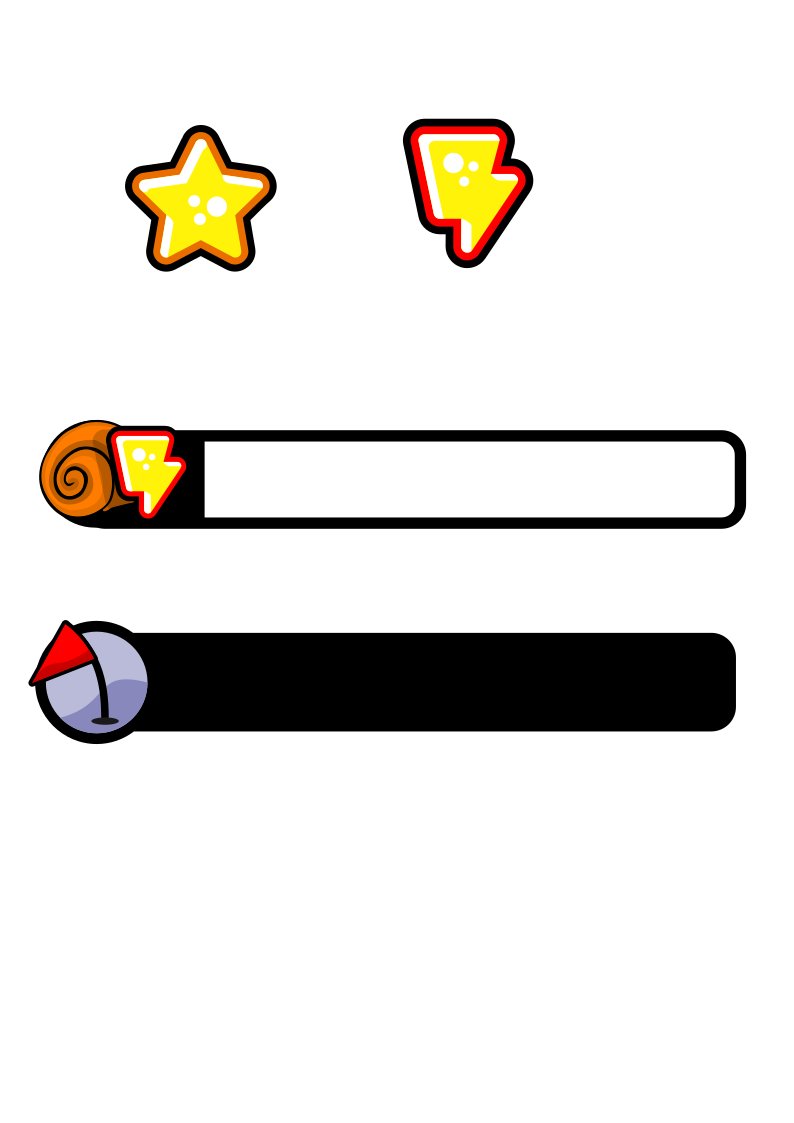
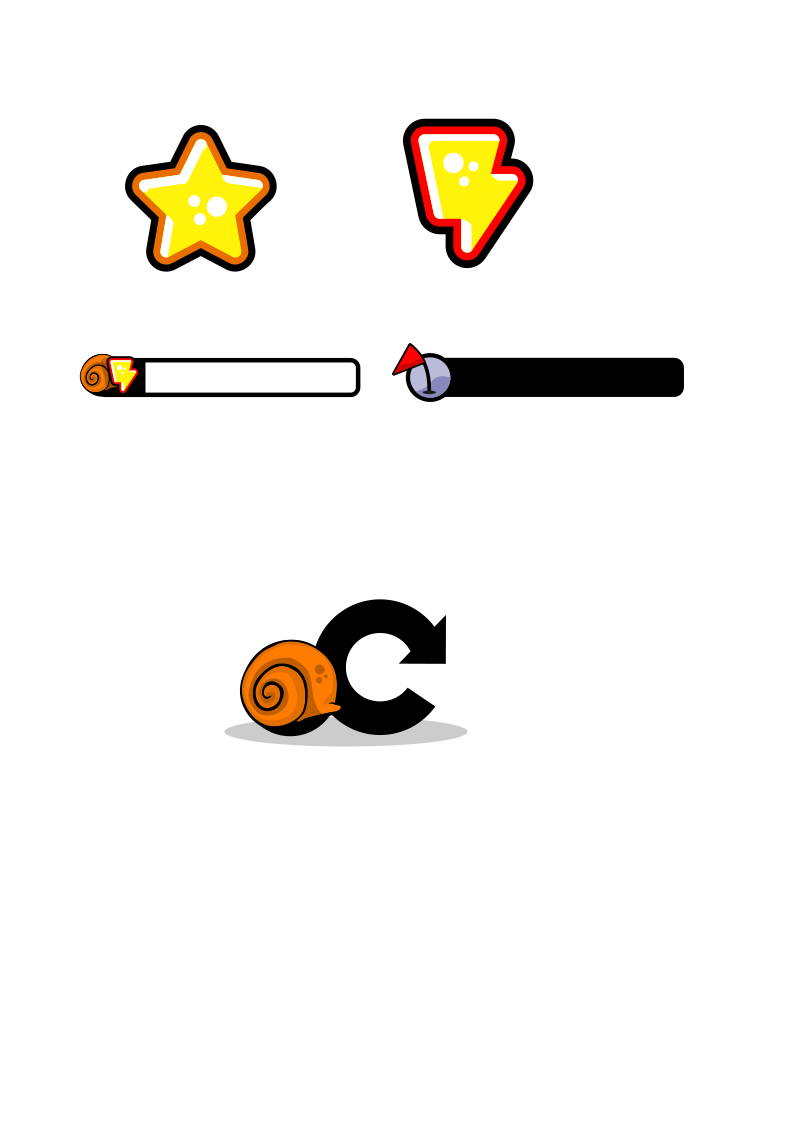
feat: replay game

Changed region(s): [[0.0302, 0.3117, 0.9673, 0.4987], [0.0302, 0.5298, 0.937, 0.6857]]

diff --git a/src/view/Cloud.js b/src/view/Cloud.js
@@ -1,0 +1,36 @@
+import { Graphics, Sprite, Text } from "pixi.js";
+
+function mobileCheck() {
+  if(!navigator && !window) {
+    return false
+  }
+  let check = false;
+  (function(a){if(/(android|bb\d+|meego).+mobile|avantgo|bada\/|blackberry|blazer|compal|elaine|fennec|hiptop|iemobile|ip(hone|od)|iris|kindle|lge |maemo|midp|mmp|mobile.+firefox|netfront|opera m(ob|in)i|palm( os)?|phone|p(ixi|re)\/|plucker|pocket|psp|series(4|6)0|symbian|treo|up\.(browser|link)|vodafone|wap|windows ce|xda|xiino/i.test(a)||/1207|6310|6590|3gso|4thp|50[1-6]i|770s|802s|a wa|abac|ac(er|oo|s\-)|ai(ko|rn)|al(av|ca|co)|amoi|an(ex|ny|yw)|aptu|ar(ch|go)|as(te|us)|attw|au(di|\-m|r |s )|avan|be(ck|ll|nq)|bi(lb|rd)|bl(ac|az)|br(e|v)w|bumb|bw\-(n|u)|c55\/|capi|ccwa|cdm\-|cell|chtm|cldc|cmd\-|co(mp|nd)|craw|da(it|ll|ng)|dbte|dc\-s|devi|dica|dmob|do(c|p)o|ds(12|\-d)|el(49|ai)|em(l2|ul)|er(ic|k0)|esl8|ez([4-7]0|os|wa|ze)|fetc|fly(\-|_)|g1 u|g560|gene|gf\-5|g\-mo|go(\.w|od)|gr(ad|un)|haie|hcit|hd\-(m|p|t)|hei\-|hi(pt|ta)|hp( i|ip)|hs\-c|ht(c(\-| |_|a|g|p|s|t)|tp)|hu(aw|tc)|i\-(20|go|ma)|i230|iac( |\-|\/)|ibro|idea|ig01|ikom|im1k|inno|ipaq|iris|ja(t|v)a|jbro|jemu|jigs|kddi|keji|kgt( |\/)|klon|kpt |kwc\-|kyo(c|k)|le(no|xi)|lg( g|\/(k|l|u)|50|54|\-[a-w])|libw|lynx|m1\-w|m3ga|m50\/|ma(te|ui|xo)|mc(01|21|ca)|m\-cr|me(rc|ri)|mi(o8|oa|ts)|mmef|mo(01|02|bi|de|do|t(\-| |o|v)|zz)|mt(50|p1|v )|mwbp|mywa|n10[0-2]|n20[2-3]|n30(0|2)|n50(0|2|5)|n7(0(0|1)|10)|ne((c|m)\-|on|tf|wf|wg|wt)|nok(6|i)|nzph|o2im|op(ti|wv)|oran|owg1|p800|pan(a|d|t)|pdxg|pg(13|\-([1-8]|c))|phil|pire|pl(ay|uc)|pn\-2|po(ck|rt|se)|prox|psio|pt\-g|qa\-a|qc(07|12|21|32|60|\-[2-7]|i\-)|qtek|r380|r600|raks|rim9|ro(ve|zo)|s55\/|sa(ge|ma|mm|ms|ny|va)|sc(01|h\-|oo|p\-)|sdk\/|se(c(\-|0|1)|47|mc|nd|ri)|sgh\-|shar|sie(\-|m)|sk\-0|sl(45|id)|sm(al|ar|b3|it|t5)|so(ft|ny)|sp(01|h\-|v\-|v )|sy(01|mb)|t2(18|50)|t6(00|10|18)|ta(gt|lk)|tcl\-|tdg\-|tel(i|m)|tim\-|t\-mo|to(pl|sh)|ts(70|m\-|m3|m5)|tx\-9|up(\.b|g1|si)|utst|v400|v750|veri|vi(rg|te)|vk(40|5[0-3]|\-v)|vm40|voda|vulc|vx(52|53|60|61|70|80|81|83|85|98)|w3c(\-| )|webc|whit|wi(g |nc|nw)|wmlb|wonu|x700|yas\-|your|zeto|zte\-/i.test(a.substr(0,4))) check = true;})(navigator.userAgent||navigator.vendor||window.opera);
+  return check;
+};
+
+export default class Cloud extends Sprite {
+
+  constructor(model) {
+    super(model)
+    this.content = Sprite.from('replay.png')
+    this.content.y = -350
+    this.content.anchor.set(0.5)
+    this.addChild(this.content)
+
+    const action = mobileCheck() ? 'TAP' : 'CLICK'
+
+    this.label = new Text(`${action} TO\nREPLAY`, {
+      fontFamily : 'Arial', 
+      fontSize: 50, 
+      fill : 0x000000,
+      fontWeight: 'bold',
+      align : 'center'
+    });
+    this.label.x = 20
+    this.label.y = -310
+    this.label.anchor.set(0.5, 0.5)
+    this.addChild(this.label)
+  }
+
+}

diff --git a/src/view/WorldView.js b/src/view/WorldView.js
@@ -1,5 +1,5 @@
 import { Sprite } from "pixi.js";
-import { SNAIL_MIN_SPEED } from "../sim/Snail";
+import { DEAD, SNAIL_MIN_SPEED } from "../sim/Snail";
 import Background from "./ground/Background";
 import DistanceMeter from "./DistanceMeter";
 import EnergyBar from "./EnergyBar";
@@ -19,6 +19,7 @@ export default class WorldView extends View {
     this.zoom = 50
 
     this.yShift = 0.5
+    this.xShift = 0.18
     this.groundWidth = 500
 
     this.ground = new GroundView(this.model.ground)
@@ -52,14 +53,16 @@ export default class WorldView extends View {
     this.ground.update()
   }
 
-  follow(x, y, width, height) {
+  follow(snail, width, height) {
+    const x = snail.body.getPosition().x
+    const y = snail.body.getPosition().y
     this.background.follow(x, y, width, height)
 
     let vx = this.model.snail.body.getLinearVelocity().x
     let vy = this.model.snail.body.getLinearVelocity().y
     let v = Math.sqrt(vx * vx + vy * vy) 
     v = Math.max(v, SNAIL_MIN_SPEED)
-    const timeHorizon = 5 // seconds
+    const timeHorizon = 4 // seconds
     const distanceHorizon = v * timeHorizon
 
     const targetZoom = Math.min(60,  width / distanceHorizon)
@@ -70,18 +73,22 @@ export default class WorldView extends View {
       this.zoom += Math.max(-0.1 , (targetZoom - this.zoom) * 0.01)
     }
 
-    if(this.model.snail.isOnGround) {
+    if(this.model.snail.state === DEAD) {
+      this.yShift += Math.min(0.0005,  (0.8 - this.yShift) * 0.08)
+      this.xShift += Math.min(0.0005,  (0.5 - this.xShift) * 0.08)
+    } else if(this.model.snail.isOnGround) {
       this.yShift += Math.min(0.0005,  (0.6 - this.yShift) * 0.05)
     } else {
       this.yShift += Math.max(-0.0005, (0.4  - this.yShift) * 0.08)
     }
 
-    const targetX = -x * this.viewContainer.scale.x + width / 4
-    const targetY = -y * this.viewContainer.scale.y + height * this.yShift
+    let targetX
+    let targetY
 
+    targetX = -x * this.viewContainer.scale.x + width * this.xShift
+    targetY = -y * this.viewContainer.scale.y + height * this.yShift
     this.viewContainer.x = targetX
     this.viewContainer.y += (targetY - this.viewContainer.y) * 0.3
-
-    this.groundWidth = width / this.viewContainer.scale.x 
+    this.groundWidth = width / this.viewContainer.scale.x     
   }
 }

diff --git a/src/sim/InputController.js b/src/sim/InputController.js
@@ -1,21 +1,64 @@
-export default class InputController {
-  constructor(doc, snail) {
+import { EventEmitter } from "events"
+
+export default class InputController extends EventEmitter {
+  constructor(doc) {
+    super()
     this.doc = doc
-    this.snail = snail
+    this._snail = null
+    this.gameOverHandler = this.omGameOver.bind(this)
+    this.gameOver = false;
+  }
+
+  set snail(snail) {
+    if(this._snail) {
+      this._snail.off('gameover', this.gameOverHandler)
+    }
+    this._snail = snail
+    this._snail.on('gameOver', this.gameOverHandler)
+  }
+
+  get snail() {
+    return this._snail
   }
 
   init() {
     this.doc.addEventListener('keydown', (e) => {
       if(e.code.toLocaleLowerCase() === 'space') {
-        this.snail.run = true
+        this.activate()
       }
     });
     this.doc.addEventListener('keyup', (e) => {
       if(e.code.toLocaleLowerCase() === 'space') {
-        this.snail.run = false
+        this.deactivate()
       }
     });
+
+    this.doc.addEventListener('mousedown', () => this.activate())
+    this.doc.addEventListener('mouseup', () => this.deactivate())
+    this.doc.addEventListener('touchstart', () => this.activate())
+    this.doc.addEventListener('touchend', () => this.deactivate())
   
     this.doc.body.focus()
+  }
+
+  activate() {
+    if(this._snail && !this.gameOver) {
+      this._snail.run = true
+    }
+  }
+
+  deactivate() {
+    if(this.gameOver) {
+      this.gameOver = false
+      this.emit('replay')
+      return;
+    }
+    if(this._snail && !this.gameOver) {
+      this._snail.run = false
+    }
+  }
+
+  omGameOver() {
+    this.gameOver = true
   }
 }

diff --git a/src/index.js b/src/index.js
@@ -4,13 +4,10 @@ import { Application, Graphics, Text } from "pixi.js";
 import './style.css'
 import WorldView from './view/WorldView.js';
 
-document.addEventListener("DOMContentLoaded", (event) => {
 
-  // model 
+function startNewGame() {
   const sim = new World()
   const view = new WorldView(sim)
-  const controller = new InputController(document, sim.snail)
-  controller.init()
 
   // rendering
   const sceneContainer = document.querySelector("#scene");
@@ -26,13 +23,46 @@ document.addEventListener("DOMContentLoaded", (event) => {
     sim.update(dt, view.groundWidth)
     view.update()
     view.follow(
-      sim.snail.body.getPosition().x,
-      sim.snail.body.getPosition().y,
+      sim.snail,
       app.renderer.width,
       app.renderer.height
     )
     view.energyBar.value = sim.snail.energy/100
     view.distanceMeter.value = sim.snail.distance
   })
+  return {
+    model: sim,
+    view: view,
+    pixiApp: app,
+  }
+}
+
+document.addEventListener("DOMContentLoaded", (event) => {
+
+  let world
+  let app
+  let worldView
+
+  const controller = new InputController(document)
+  controller.init()
+  controller.on("replay", () => {
+    if(!world || !app || !worldView) {
+      return
+    }
+    world.destroy()
+    app.destroy(true)
+
+    const { model, pixiApp, view } = startNewGame()
+    world = model
+    app = pixiApp
+    worldView = view
+    controller.snail = world.snail
+  })
+
+  const { model, pixiApp, view } = startNewGame()
+  world = model
+  app = pixiApp
+  worldView = view
+  controller.snail = world.snail
 
 })

diff --git a/src/sim/Snail.js b/src/sim/Snail.js
@@ -51,13 +51,13 @@ export default class Snail extends SimObject {
   }
 
   update() {
-    const powerConsumption = 0.02 + this.body.getPosition().x/200000
+    const powerConsumption = 0.02 + this.body.getPosition().x/300000
 
     this.energy = Math.max(0, this.energy - powerConsumption)
 
     this.pusher.setPosition(this.body.getPosition());
     if(this.run && this.energy > 0) {
-      this.body.applyForce(Vec2(0, -30), this.body.getPosition())
+      this.body.applyForce(Vec2(0, -20), this.body.getPosition())
       this.energy = Math.max(0, this.energy - powerConsumption)
     }
     const snailSpeed = this.body.getLinearVelocity().x
@@ -129,11 +129,17 @@ export default class Snail extends SimObject {
     if(this.energy <= 0 && this.isOnGround) {
       this.state = DEAD
 
+      const linearVelocity = this.body.getLinearVelocity()
+
       this.body.applyForce(Vec2(
-        -this.body.getLinearVelocity().x,
-        -this.body.getLinearVelocity().y
+        -linearVelocity.x,
+        -linearVelocity.y
       ).mul(1), this.body.getPosition())
       this.bodyFixture.setFriction(1)
+
+      if(linearVelocity.x < 0.05) {
+        this.emit('gameOver')
+      }
     }
     this._distance = Math.max(this._distance, 0.05*(this.body.getPosition().x))
   }

diff --git a/src/view/EnergyBar.js b/src/view/EnergyBar.js
@@ -5,24 +5,26 @@ export default class EnergyBar extends Sprite {
     super()
     this.bg = new Graphics()
     this.bg.beginFill(0x000000)
-    this.bg.drawRect(49, 6, 144, 23)
+    this.bg.drawRect(54, 17, 158, 24)
     this.bg.endFill()
     this.addChild(this.bg)
 
     this.progress = new Graphics()
     this.progress.beginFill(0xffff00)
-    this.progress.drawRect(0, 6, 144, 23)
+    this.progress.drawRect(0, 0, 158, 24)
     this.progress.endFill()
     this.progress.beginFill(0xffffff)
-    this.progress.drawRect(0, 6, 144, 5)
+    this.progress.drawRect(0, 0, 158, 5)
     this.progress.endFill()
     this.progress.beginFill(0xffaa00)
-    this.progress.drawRect(0, 26, 144, 3)
+    this.progress.drawRect(0, 21, 158, 3)
     this.progress.endFill()
-    this.progress.x = 49
+    this.progress.x = 54
+    this.progress.y = 17
     this.addChild(this.progress)
 
     this.face = Sprite.from('energy.png')
+    this.face.scale.set(0.75)
     this.addChild(this.face)
 
     this._value = 1

diff --git a/src/sim/World.js b/src/sim/World.js
@@ -7,15 +7,19 @@ const Vec2 = plank.Vec2;
 export default class World extends SimContainer {
   constructor() {
     super()
-    this.world = null
-    this.snail = null
-    this.ground = null
 
+    this.active = true
     this.world = plank.World(Vec2(0, -10))
     this.snail = new Snail(this.world)
     this.ground = new Ground(this.world)
     this.addChild(this.snail)
     this.addChild(this.ground)
+
+    this.snail.on('gameOver', () => {
+      console.log('GAME OVER')
+      console.log(`Distance: ${this.snail.distance.toFixed(1)}m`)
+      this.active = false
+    })
 
     this.world.on('begin-contact', (contact) => {
       const objA = contact.getFixtureA().objRef
@@ -48,6 +52,9 @@ export default class World extends SimContainer {
   }
  
   update(dt, groundWidth) {
+    if(!this.active) {
+      return
+    }
     super.update(dt)
     this.world.step(1/60);
     this.ground.build(this.snail.body.getPosition().x, groundWidth)

diff --git a/src/view/SnailView.js b/src/view/SnailView.js
@@ -5,6 +5,7 @@ import {
   ROLLING, 
   WALKING 
 } from "../sim/Snail";
+import Cloud from "./Cloud";
 import Dust from "./Dust";
 import View from "./View";
 
@@ -66,6 +67,15 @@ export default class SnailView extends View {
     this.dust.x = 0
     this.dust.y = -0.5
     this.antiRotationContainer.addChild(this.dust)
+
+    this.cloud = new Cloud()
+    this.cloud.visible = false
+    this.cloud.scale.set(0.007, -0.007)
+    this.antiRotationContainer.addChild(this.cloud)
+
+    model.on('gameOver', () => {
+      this.cloud.visible = true
+    })
   }
 
   get hidden() {

diff --git a/src/view/DistanceMeter.js b/src/view/DistanceMeter.js
@@ -5,15 +5,16 @@ export default class DistanceMeter extends Sprite {
   constructor() {
     super()
     this.bg = Sprite.from('distance.png')
+    this.bg.scale.set(0.75)
     this.addChild(this.bg)
 
     this.label = new Text('0.0m', {
       fontFamily : 'Arial', 
-      fontSize: 18, 
+      fontSize: 20, 
       fill : 0xffffff
     });
-    this.label.x = 175
-    this.label.y = 8
+    this.label.x = 210
+    this.label.y = 18
     this.label.anchor.set(1, 0)
     this.addChild(this.label)
     this._value = 0

diff --git a/src/style.css b/src/style.css
@@ -2,5 +2,6 @@ html, body, #scene {
   height: 100%;
   padding: 0;
   margin: 0;
-  overflow: hidden
+  overflow: hidden;
+  background-color: #000
 }
